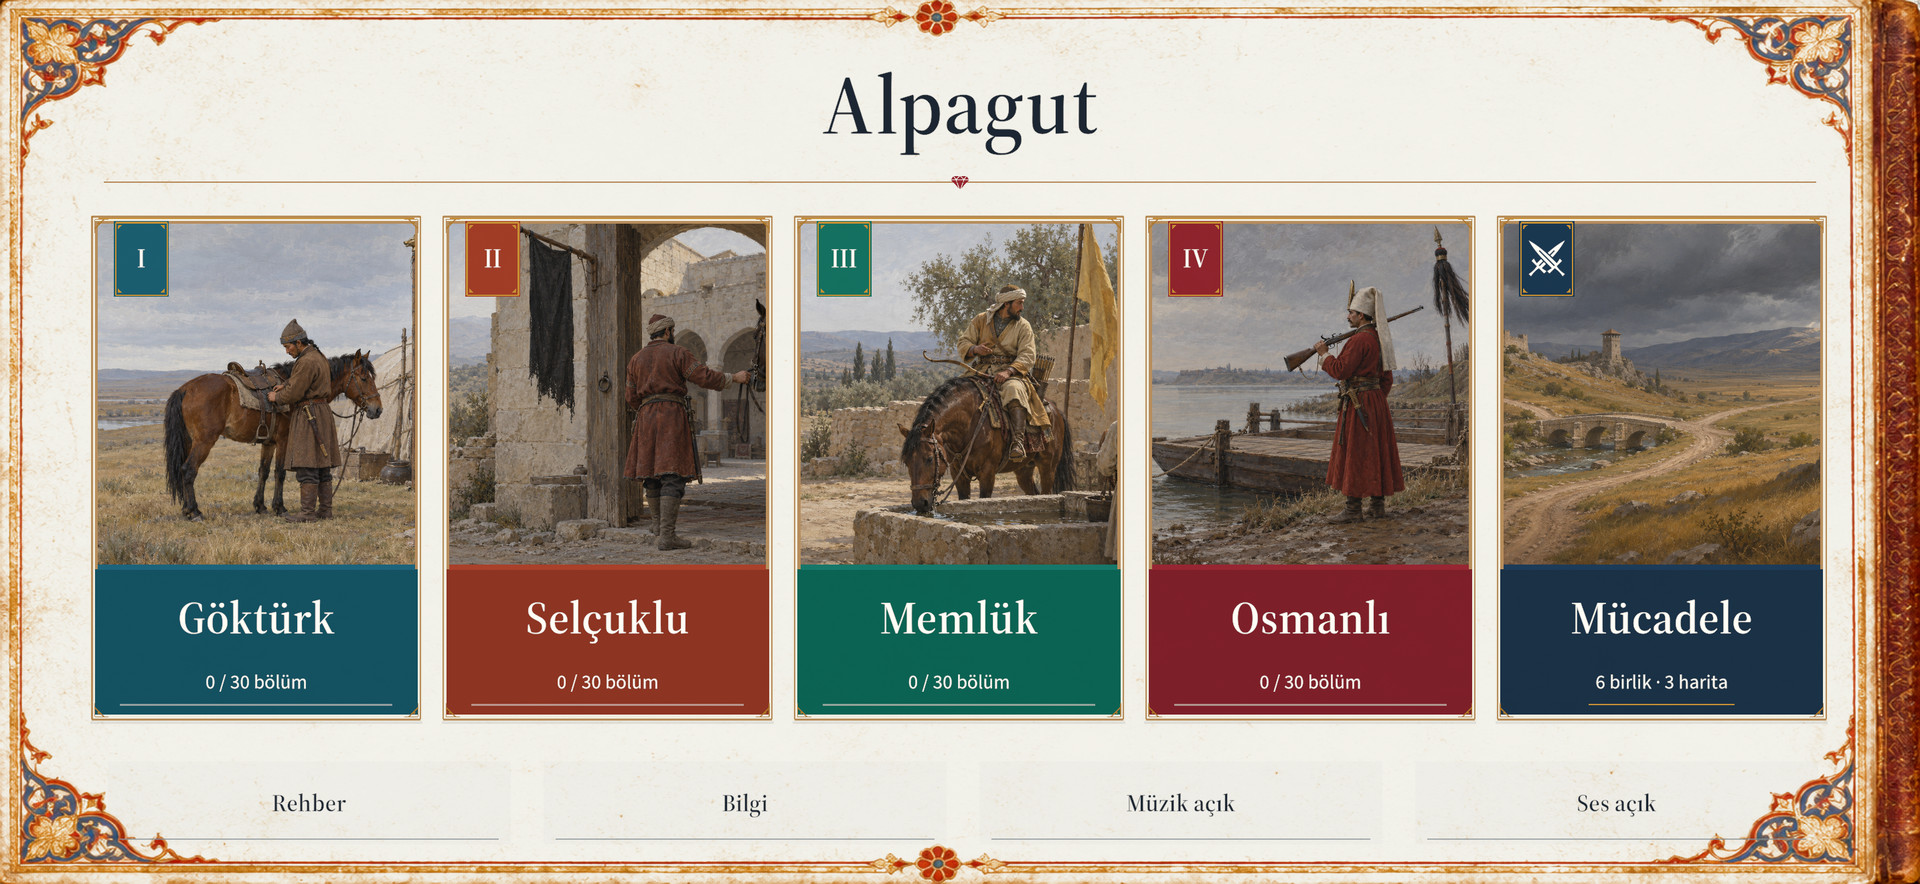
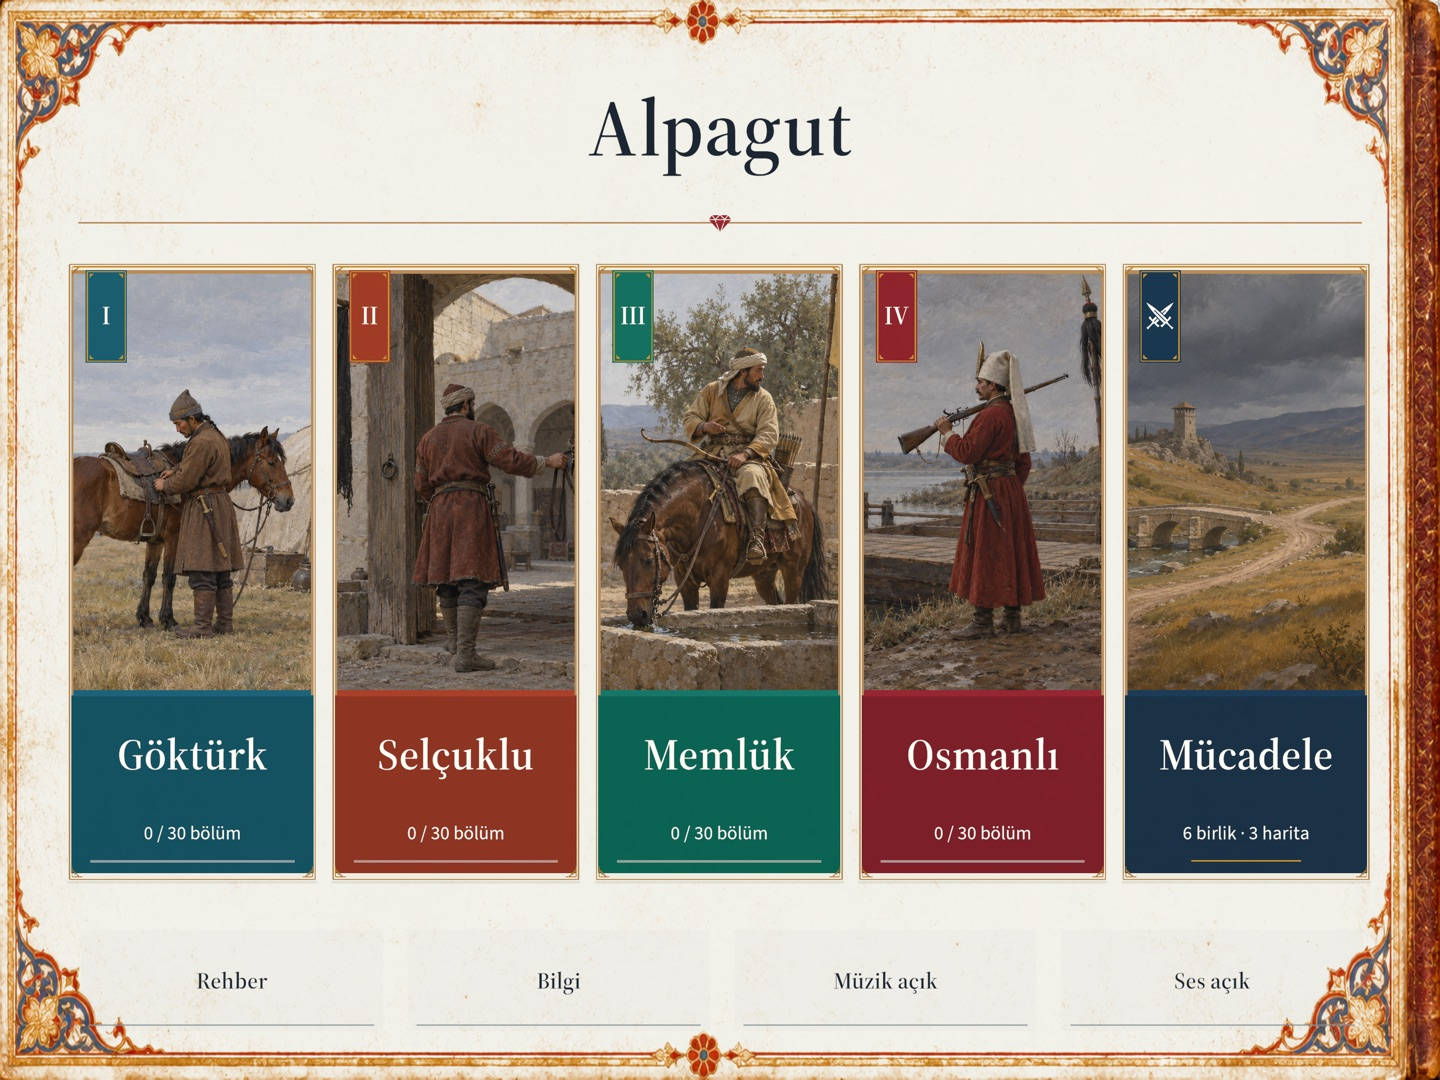
Complete Alpagut player guide and legacy redirects

diff --git a/alpagut/support/index.html b/alpagut/support/index.html
@@ -7,6 +7,7 @@
   <title>Oyuncu desteği · Alpagut</title>
   <meta name="description" content="Alpagut’ta seferlere başlama, birlik kurma, yükseltme, Mücadele destesi ve yerel kayıtlar için oyuncu rehberi.">
   <link rel="canonical" href="https://softwareluna.github.io/alpagut/support/">
+  <meta property="og:url" content="https://softwareluna.github.io/alpagut/support/">
   <link rel="icon" type="image/png" href="/alpagut/assets/icon.png">
   <meta property="og:title" content="Oyuncu desteği · Alpagut">
   <meta property="og:description" content="Alpagut’ta seferlere başlama, birlik kurma, yükseltme, Mücadele destesi ve yerel kayıtlar için oyuncu rehberi.">
@@ -27,17 +28,23 @@
 <div class="wrap section reading"><article class="copy">
 <section id="baslangic"><h2>İlk cephene başla</h2><ol><li>Ana menüden <strong>Göktürk, Selçuklu, Memlük veya Osmanlı</strong> seferini seç.</li><li>Haritadaki açık cepheyi seç. <strong>Yol krokisi</strong> ile düşmanın izleyeceği yolu ve mevzileri incele.</li><li><strong>Cepheye gir</strong> düğmesine dokun. Boş mevziyi seçerek birliğini kur.</li><li>Hazır olduğunda <strong>Dalgayı çağır</strong> düğmesine dokun. Kazandığın altınla yeni birlikler kur veya mevcut birliklerini yükselt.</li></ol><img class="screen" src="/alpagut/assets/build12-gokturk.jpg" width="1434" height="660" alt="Göktürk seferi ve Cepheye gir düğmesi" loading="lazy" decoding="async"><p class="note">Her sefer 30 cephe içerir. Yeni birlik ve yükseltmelerin açılma sırasını Sefer defteri’nde görebilirsin.</p></section>
 <section id="kontroller"><h2>Haritayı ve birliklerini yönet</h2><ul><li>Haritayı <strong>tek parmakla sürükleyerek</strong> kaydır. <strong>İki parmağınla</strong> yakınlaş veya uzaklaş.</li><li>Birliğe dokunarak yükseltme kartını aç. Kartta mevcut değerleri, bir sonraki seviyeyi ve altın maliyetini görürsün.</li><li>Ekranın sağ üstündeki <strong>duraklatma</strong> düğmesi Mola ekranını açar. Buradan rehbere ulaşabilir, müzik ve ses tercihlerini değiştirebilirsin.</li><li>Özel emri kullanmak için simgesine, ardından hedefe dokun. Kullanımdan sonra gri simge yeniden renklendiğinde emir hazırdır.</li></ul><p>Ana menüdeki <strong>Rehber</strong>, Nasıl oynanır, Birlikler, Düşmanlar, Simgeler, Seviyeler ve Mücadele bölümlerini içerir.</p><img class="screen" src="/alpagut/assets/build12-savas.jpg" width="1280" height="720" alt="Savaş alanında dalga düğmesi, emirler ve sağ üstte duraklatma düğmesi" loading="lazy" decoding="async"></section>
+<section id="emirler"><h2>Özel emirleri kullan</h2>
+<p>Sağ üstteki özel emir simgesine, ardından haritadaki geçerli bir hedefe dokun. Emir uygulandığında <strong>30 oyun içi altın</strong> harcanır. İptal ettiğinde, yeterli altının olmadığında veya geçersiz bir hedef seçtiğinde altın ve bekleme süresi harcanmaz.</p>
+<p>Simgenin üzerindeki gri dairesel gösterge kalan bekleme süresini gösterir. Yeniden hazır olduğunda emri tekrar kullanabilirsin.</p>
+<ul><li><strong>Selçuklu — Gazi Desteği</strong> geçici gürzlü piyadeler çağırır.</li><li><strong>Memlük — Süvari Desteği</strong> geçici mızraklı süvariler çağırır.</li><li>Destek birlikleri seferde açılmış seviyeyi kullanır. Yenildiklerinde veya dalga bittiğinde ayrılırlar.</li><li><strong>Ok Yağmuru</strong> ve <strong>Topçu Salvosu</strong> ile hedeflediğin bölgedeki savunmana destek verebilirsin.</li></ul>
+</section>
 <section id="mucadele"><h2>Mücadele desteni oluştur</h2><ol><li>Ana menüden <strong>Mücadele</strong>’yi aç.</li><li><strong>Kurt Geçidi, Kervan Kavşağı veya Tuna Geçişi</strong> haritasını seç.</li><li><strong>Desteyi oluştur</strong> düğmesine dokun. Dört seferde açılmış birliklerden <strong>altısını</strong> seç ve <strong>Mücadeleyi başlat</strong> düğmesine dokun.</li></ol><p>İlk dalga için 25 saniye, sonraki dalgalar için 14 saniye hazırlık süren var. Hazır olduğunda dalgayı erken çağırabilirsin. Üs düştüğünde tamamlanan dalga ve puanın gösterilir. En iyi 10 sonucun bu cihazda saklanır.</p><img class="screen" src="/alpagut/assets/build12-deste.jpg" width="1280" height="720" alt="Mücadele destesinde altı seçili birlik ve Mücadeleyi başlat düğmesi" loading="lazy" decoding="async"></section>
 <section id="sorular"><h2>Sık sorulan sorular</h2>
 <details><summary>Mücadele’de kilitli birlikleri nasıl açarım?</summary><p>Birliğin ait olduğu seferde ilerle. Açtığın askerleri Mücadele destene ekleyebilirsin. Birliği, kendi seferinde açtığın en yüksek seviyeye kadar yükseltebilirsin.</p></details>
 <details><summary>Birliklerin en yüksek seviyesi nedir?</summary><p>Birlikler 8. seviyeye kadar yükselir. Hangi seviyeleri kullanabildiğin sefer ilerlemene bağlıdır. Rehber → Seviyeler bölümünde seviye simgeleri ve gelişimleri görebilirsin.</p></details>
 <details><summary>Üç yıldız nasıl kazanılır?</summary><p>Seferin son dalgasını durdurduğunda üs canın %80 veya üzerindeyse üç yıldız, %45 veya üzerindeyse iki yıldız kazanırsın.</p></details>
 <details><summary>İnternet olmadan oynayabilir miyim?</summary><p>Evet. Oyun çevrimdışı çalışır. Sefer ilerlemen, oyun tercihlerin ve Mücadele rekorların cihazında saklanır.</p></details>
+<details><summary>Alpagut güncellemesi sefer ilerlememi korur mu?</summary><p>Evet. Alpagut güncellemesi mevcut sefer ilerlemesini ve cihazındaki oyun kayıtlarını kullanmaya devam eder.</p></details>
 <details><summary>Uygulamayı silersem ilerlememe ne olur?</summary><p>Uygulamayı cihazından sildiğinde yerel oyun kayıtları da silinir. Oyunda hesapla giriş veya geliştirici sunucusuna kaydedilen bir ilerleme sistemi bulunmaz. Apple yedeklemeleri cihazının ayarlarına bağlıdır.</p></details>
 <details><summary>Oyun içindeki gizlilik ve lisans bilgilerini nerede bulabilirim?</summary><p>Ana menüdeki Bilgi bölümünü aç. Gizlilik politikası ve kullanılan eserlerin lisanslarına buradan ulaşabilirsin.</p></details>
 </section>
 <section id="iletisim"><h2>Bize ulaş</h2><p>Sorunu bildirirken cihaz modelini, iOS veya iPadOS sürümünü, oynadığın seferi ve cepheyi yaz. Mücadele’deysen haritayı ve dalgayı ekle. Sorun oluşmadan önce yaptığın adımları ve varsa ekran görüntüsünü paylaşabilirsin.</p><p><a class="button" href="mailto:serdengecti.emre@gmail.com?subject=Alpagut%20-%20Destek">Destek ekibine yaz</a></p><p><a class="contact-address" href="mailto:serdengecti.emre@gmail.com">serdengecti.emre@gmail.com</a></p></section>
-</article><aside class="aside"><h2>Bu sayfada</h2><nav aria-label="Sayfa içeriği"><a href="#baslangic">İlk cephe</a><a href="#kontroller">Kontroller</a><a href="#mucadele">Mücadele</a><a href="#sorular">Sık sorulan sorular</a><a href="#iletisim">Bize ulaş</a></nav></aside></div>
+</article><aside class="aside"><h2>Bu sayfada</h2><nav aria-label="Sayfa içeriği"><a href="#baslangic">İlk cephe</a><a href="#kontroller">Kontroller</a><a href="#emirler">Özel emirler</a><a href="#mucadele">Mücadele</a><a href="#sorular">Sık sorulan sorular</a><a href="#iletisim">Bize ulaş</a></nav></aside></div>
 
 </main>
 <footer class="foot"><div class="wrap"><p><a href="/">SoftwareLuna</a> · Alpagut</p><nav aria-label="Alt menü"><a href="/alpagut/">Oyun</a><a href="/alpagut/support/" aria-current="page">Oyuncu desteği</a><a href="/alpagut/privacy/">Gizlilik</a></nav></div></footer>

diff --git a/alpagut/index.html b/alpagut/index.html
@@ -7,6 +7,7 @@
   <title>Alpagut · Oyun ve oyuncu rehberi</title>
   <meta name="description" content="Göktürk, Selçuklu, Memlük ve Osmanlı seferlerinde 120 bölüm. Gerçek oyun ekranları, Mücadele rehberi ve oyuncu desteği.">
   <link rel="canonical" href="https://softwareluna.github.io/alpagut/">
+  <meta property="og:url" content="https://softwareluna.github.io/alpagut/">
   <link rel="icon" type="image/png" href="/alpagut/assets/icon.png">
   <meta property="og:title" content="Alpagut · Oyun ve oyuncu rehberi">
   <meta property="og:description" content="Göktürk, Selçuklu, Memlük ve Osmanlı seferlerinde 120 bölüm. Gerçek oyun ekranları, Mücadele rehberi ve oyuncu desteği.">
@@ -24,13 +25,13 @@
 <main id="icerik">
 
 <section class="hero"><div class="wrap hero-grid">
-  <div><p class="eyebrow">iPhone ve iPad için kule savunması</p><h1>Alpagut</h1><p class="subtitle">Kule savunması</p>
+  <div><p class="eyebrow">iPhone ve iPad için kule savunması</p><h1>Alpagut</h1>
   <p class="intro">Göktürk bozkırlarından Tuna kıyılarına uzanan dört seferde kaleni savun. Birliklerini seç, geçitleri tut, her dalgaya hazırlan.</p>
   <div class="actions"><a class="button" href="support/#baslangic">Nasıl oynanır?</a><a class="quiet-link" href="#oyun-ekranlari">Oyun ekranlarını gör</a></div></div>
-  <figure class="hero-shot"><img class="screen" src="/alpagut/assets/build12-ana-menu.jpg" width="1920" height="884" alt="Alpagut ana menüsünde Göktürk, Selçuklu, Memlük, Osmanlı ve Mücadele seçenekleri" fetchpriority="high" decoding="async"><figcaption>Dört sefer ve Mücadele, ana menüden bir dokunuş uzaklıkta.</figcaption></figure>
+  <figure class="hero-shot"><img class="screen" src="/alpagut/assets/build12-ana-menu.jpg" width="1440" height="1080" alt="Alpagut ana menüsünde Göktürk, Selçuklu, Memlük, Osmanlı ve Mücadele seçenekleri" fetchpriority="high" decoding="async"><figcaption>Dört sefer ve Mücadele, ana menüden bir dokunuş uzaklıkta.</figcaption></figure>
 </div></section>
 <section class="section"><div class="wrap"><p class="eyebrow">Seferler</p><h2>Dört dönem. 120 cephe.</h2>
-  <p class="section-intro">Her sefer 30 bölümden oluşur. İlerledikçe yeni birlikler, yükseltmeler ve emirler açılır. Sefer defterinden sıradaki kazanımları görebilirsin.</p>
+  <p class="section-intro">Her sefer 30 bölümden oluşur. İlerledikçe yeni birlikler, yükseltmeler ve emirler açılır. Sefer defterinden sıradaki kazanımları görebilirsin. Selçuklu’da Gazi Desteği, Memlük’te Süvari Desteği ile savunmana geçici birlikler çağırabilirsin.</p>
   <div class="campaigns"><article><h3>Göktürk</h3><p>Ötüken’den başlayan bozkır seferi.</p></article><article><h3>Selçuklu</h3><p>Sultanönü’nden Anadolu yollarına.</p></article><article><h3>Memlük</h3><p>Sina’dan uzanan sıcak geçitler.</p></article><article><h3>Osmanlı</h3><p>Morava’dan nehir boylarına.</p></article></div>
 </div></section>
 <section class="section"><div class="wrap split"><div><p class="eyebrow">Mücadele</p><h2>Desteni kur.<br>Rekorunu geliştir.</h2>

diff --git a/kaganin-muhafizlari/index.html b/kaganin-muhafizlari/index.html
@@ -1,0 +1,15 @@
+<!doctype html>
+<html lang="tr">
+<head>
+  <meta charset="utf-8">
+  <meta name="viewport" content="width=device-width,initial-scale=1">
+  <title>Oyun · Alpagut</title>
+  <meta name="robots" content="noindex,follow">
+  <link rel="canonical" href="https://softwareluna.github.io/alpagut/">
+  <link rel="icon" href="/alpagut/assets/icon.png" type="image/png">
+  <link rel="stylesheet" href="/alpagut/assets/alpagut.css">
+  <meta http-equiv="refresh" content="0; url=https://softwareluna.github.io/alpagut/">
+  <script>location.replace("/alpagut/" + location.search + location.hash);</script>
+</head>
+<body><main class="wrap section"><p class="eyebrow">Alpagut</p><h1>Yeni adresimiz</h1><p>Bu sayfa Alpagut’un yeni adresine taşındı. Otomatik yönlendirme başlamazsa aşağıdaki bağlantıyı kullanabilirsin.</p><p><a class="button" href="https://softwareluna.github.io/alpagut/">Alpagut · Oyun</a></p></main></body>
+</html>

diff --git a/alpagut/privacy/index.html b/alpagut/privacy/index.html
@@ -7,6 +7,7 @@
   <title>Gizlilik politikası · Alpagut</title>
   <meta name="description" content="Alpagut oyunundaki yerel kayıtlar, destek yazışmaları ve web sitesine ait gizlilik bilgileri.">
   <link rel="canonical" href="https://softwareluna.github.io/alpagut/privacy/">
+  <meta property="og:url" content="https://softwareluna.github.io/alpagut/privacy/">
   <link rel="icon" type="image/png" href="/alpagut/assets/icon.png">
   <meta property="og:title" content="Gizlilik politikası · Alpagut">
   <meta property="og:description" content="Alpagut oyunundaki yerel kayıtlar, destek yazışmaları ve web sitesine ait gizlilik bilgileri.">
